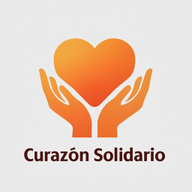
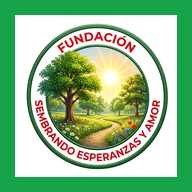
Iconos PWA actualizados + OG image para WhatsApp

diff --git a/src/app/layout.tsx b/src/app/layout.tsx
@@ -49,6 +49,14 @@ export const metadata: Metadata = {
     description:
       "Fundación sin fines de lucro reconocida por el Estado. Llevamos medicinas, regalos, talleres y esperanza a quienes más lo necesitan.",
     type: "website",
+    images: [
+      {
+        url: "/images/og-image.png",
+        width: 1200,
+        height: 630,
+        alt: "Fundación Sembrando Esperanzas y Amor",
+      },
+    ],
   },
 };
 
@@ -61,7 +69,7 @@ export default function RootLayout({
     <html lang="es" suppressHydrationWarning>
       <head>
         <link rel="manifest" href="/manifest.json" />
-        <link rel="apple-touch-icon" href="/images/icon-192.png" />
+        <link rel="apple-touch-icon" href="/apple-touch-icon.png" />
         <meta name="apple-mobile-web-app-capable" content="yes" />
         <meta name="apple-mobile-web-app-status-bar-style" content="default" />
         <meta name="apple-mobile-web-app-title" content="Sembrando Esperanzas" />